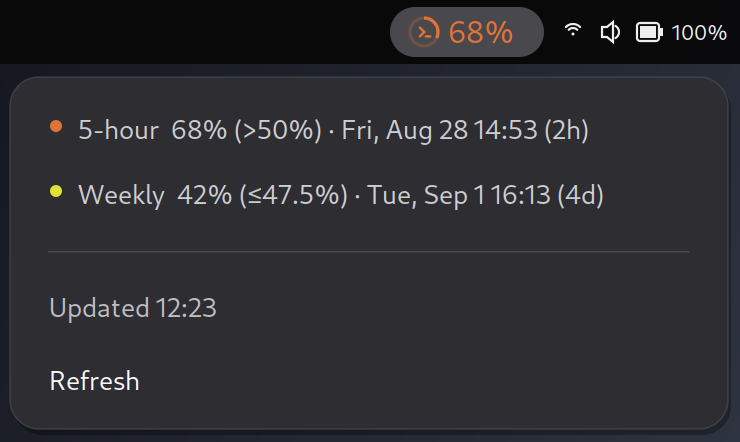
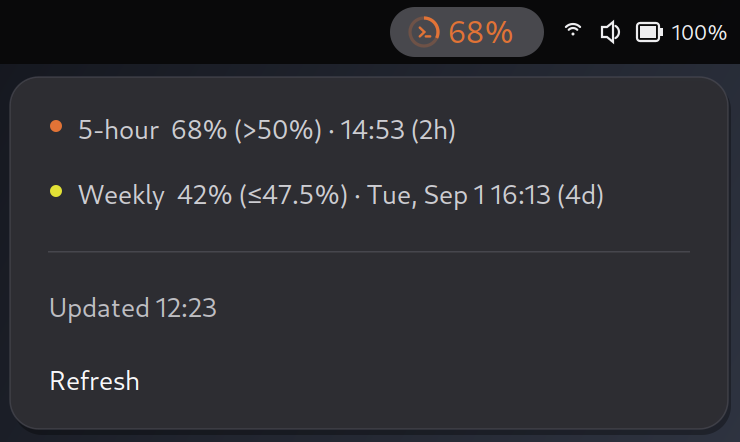
fix(quota): Hide dates from 5-hour limit labels (#17)
* fix(quota): Hide dates from 5-hour limit labels

* chore: update gnome screenshot

* fix

* chore: update macos screenshot

* macos: fix HH:mm time format

* windows: fix screenshot

* chore: update macos screenshot

* chore: update windows screenshot

---------

Changed region(s): [[0.4662, 0.2647, 0.8081, 0.3235]]

diff --git a/gnome/extension/quota.js b/gnome/extension/quota.js
@@ -98,14 +98,14 @@ function formatRemaining(milliseconds) {
     return `${Math.max(1, Math.floor(minutes))}m`;
 }
 
-export function formatReset(value, now = Date.now()) {
+export function formatReset(value, now = Date.now(), includeDate = true) {
     const date = dateFrom(value);
     if (!date) return 'reset unknown';
 
     const formatted = `${WEEKDAYS[date.getDay()]}, ${MONTHS[date.getMonth()]} ${date.getDate()}`;
     const remaining = formatRemaining(date.getTime() - now);
     const suffix = remaining ? ` (${remaining})` : '';
-    return `${formatted} ${formatTime(value)}${suffix}`;
+    return `${includeDate ? `${formatted} ` : ''}${formatTime(value)}${suffix}`;
 }
 
 function windowStatus(value, window, durationMinutes, now) {

diff --git a/macos/Sources/CuotaX/Quota.swift b/macos/Sources/CuotaX/Quota.swift
@@ -257,11 +257,11 @@ func formatTime(_ value: Date?) -> String {
   value?.formatted(date: .omitted, time: .shortened) ?? "—"
 }
 
-func formatReset(_ value: Date?, now: Date = Date()) -> String {
+func formatReset(_ value: Date?, now: Date = Date(), includeDate: Bool = true) -> String {
   guard let value else { return "reset unknown" }
   let formatter = DateFormatter()
   formatter.locale = Locale(identifier: "en_US_POSIX")
-  formatter.dateFormat = "EEE, MMM d HH:mm"
+  formatter.dateFormat = includeDate ? "EEE, MMM d HH:mm" : "HH:mm"
   let suffix = formatRemaining(value.timeIntervalSince(now)).map { " (\($0))" } ?? ""
   return "\(formatter.string(from: value))\(suffix)"
 }

diff --git a/macos/Sources/CuotaX/ScreenshotRenderer.swift b/macos/Sources/CuotaX/ScreenshotRenderer.swift
@@ -123,7 +123,7 @@ enum ScreenshotRenderer {
     NSBezierPath(ovalIn: topRect(x: 207, y: y + 5, width: 8, height: 8)).fill()
     let comparison = normalizedPercent(value.usedPercent) <= status.onTrackPercent! ? "≤" : ">"
     let title =
-      "\(label)  \(formatPercent(value.usedPercent)) (\(comparison)\(formatPercent(status.onTrackPercent))) · \(formatReset(value.resetsAt, now: now))"
+      "\(label)  \(formatPercent(value.usedPercent)) (\(comparison)\(formatPercent(status.onTrackPercent))) · \(formatReset(value.resetsAt, now: now, includeDate: !fiveHour))"
     drawText(title, x: 228, y: y, size: 15, color: labelColor)
   }
 

diff --git a/gnome/extension/extension.js b/gnome/extension/extension.js
@@ -207,7 +207,7 @@ const CuotaXIndicator = GObject.registerClass(
                     ? ''
                     : ` (${used <= status.onTrackPercent ? '≤' : '>'}${formatPercent(status.onTrackPercent)})`;
             const text = quota
-                ? `${label}  ${formatPercent(used)}${reference} · ${formatReset(quota.resetsAt)}`
+                ? `${label}  ${formatPercent(used)}${reference} · ${formatReset(quota.resetsAt, Date.now(), window !== 'fiveHour')}`
                 : `${label}  —`;
             const item = infoItem(text);
             const pacing =

diff --git a/macos/Sources/CuotaX/StatusItemController.swift b/macos/Sources/CuotaX/StatusItemController.swift
@@ -140,7 +140,7 @@ final class StatusItemController: NSObject, NSMenuDelegate {
       } ?? ""
     let title =
       quota.map {
-        "\(label)  \(formatPercent($0.usedPercent))\(reference) · \(formatReset($0.resetsAt))"
+        "\(label)  \(formatPercent($0.usedPercent))\(reference) · \(formatReset($0.resetsAt, includeDate: !fiveHour))"
       } ?? "\(label)  —"
     let item = infoItem(title)
     item.image = paceImage(color: statusColor(status))

diff --git a/gnome/scripts/screenshot.js b/gnome/scripts/screenshot.js
@@ -128,7 +128,7 @@ function windowLine(cr, label, value, window, y) {
     const reference = ` (${used <= status.onTrackPercent ? '≤' : '>'}${formatPercent(status.onTrackPercent)})`;
     text(
         cr,
-        `${label}  ${formatPercent(used)}${reference} · ${formatReset(value.resetsAt, NOW)}`,
+        `${label}  ${formatPercent(used)}${reference} · ${formatReset(value.resetsAt, NOW, window !== 'fiveHour')}`,
         78,
         y,
         20,

diff --git a/gnome/tests/test_quota.js b/gnome/tests/test_quota.js
@@ -63,6 +63,7 @@ assertEqual(
 );
 assertEqual(formatReset(resetTimestamp, resetTimestamp - 33 * 60 * 1000), 'Tue, Sep 1 13:37 (33m)');
 assertEqual(formatReset(resetTimestamp, resetTimestamp), 'Tue, Sep 1 13:37');
+assertEqual(formatReset(resetTimestamp, resetTimestamp - 7 * 60 * 60 * 1000, false), '13:37 (7h)');
 assertEqual(formatReset(null), 'reset unknown');
 const beforeReset = 1_777_000_000_000;
 const resetAt = beforeReset + 60_000;

diff --git a/macos/Tests/CuotaXTests/QuotaTests.swift b/macos/Tests/CuotaXTests/QuotaTests.swift
@@ -25,6 +25,10 @@ import Testing
       == "Tue, Sep 1 13:37 (33m)"
   )
   #expect(formatReset(date, now: date) == "Tue, Sep 1 13:37")
+  #expect(
+    formatReset(date, now: date.addingTimeInterval(-7 * 60 * 60), includeDate: false)
+      == "13:37 (7h)"
+  )
   #expect(formatReset(nil) == "reset unknown")
 }
 

diff --git a/windows/CuotaX/Quota.cs b/windows/CuotaX/Quota.cs
@@ -290,7 +290,11 @@ internal static class QuotaFormatting
 
     internal static string Time(DateTimeOffset? value) => value?.ToLocalTime().ToString("t", CultureInfo.CurrentCulture) ?? "—";
 
-    internal static string Reset(DateTimeOffset? value, DateTimeOffset? now = null)
+    internal static string Reset(
+        DateTimeOffset? value,
+        DateTimeOffset? now = null,
+        bool includeDate = true
+    )
     {
         if (value is null)
         {
@@ -299,7 +303,12 @@ internal static class QuotaFormatting
 
         var remaining = Remaining(value.Value - (now ?? DateTimeOffset.Now));
         var suffix = remaining is null ? "" : $" ({remaining})";
-        return $"{value.Value.ToLocalTime().ToString("ddd, MMM d HH:mm", CultureInfo.InvariantCulture)}{suffix}";
+        var local = value.Value.ToLocalTime();
+        var formatted = local.ToString(
+            includeDate ? "ddd, MMM d HH:mm" : "HH:mm",
+            CultureInfo.InvariantCulture
+        );
+        return $"{formatted}{suffix}";
     }
 
     private static string? Remaining(TimeSpan value)

diff --git a/windows/CuotaX/ScreenshotRenderer.cs b/windows/CuotaX/ScreenshotRenderer.cs
@@ -96,7 +96,7 @@ internal static class ScreenshotRenderer
         }
 
         var comparison = window.UsedPercent <= status.OnTrackPercent ? "≤" : ">";
-        var reset = QuotaFormatting.Reset(window.ResetsAt, Now);
+        var reset = QuotaFormatting.Reset(window.ResetsAt, Now, includeDate: !fiveHour);
         var title =
             $"{label}  {QuotaFormatting.Percent(window.UsedPercent)} ({comparison}{QuotaFormatting.Percent(status.OnTrackPercent)}) · {reset}";
         DrawText(graphics, title, 213, y, Color.FromArgb(30, 30, 30));

diff --git a/windows/CuotaX/TrayApplicationContext.cs b/windows/CuotaX/TrayApplicationContext.cs
@@ -352,7 +352,7 @@ internal sealed class TrayApplicationContext : ApplicationContext
             ? string.Empty
             : $" ({(status.Level == QuotaLevel.Normal ? "≤" : ">")}{QuotaFormatting.Percent(status.OnTrackPercent)})";
         AddInfo(
-            $"{label}  {QuotaFormatting.Percent(window.UsedPercent)}{reference} · {QuotaFormatting.Reset(window.ResetsAt)}"
+            $"{label}  {QuotaFormatting.Percent(window.UsedPercent)}{reference} · {QuotaFormatting.Reset(window.ResetsAt, includeDate: !fiveHour)}"
         );
     }
 

diff --git a/windows/CuotaX.Tests/Program.cs b/windows/CuotaX.Tests/Program.cs
@@ -105,6 +105,7 @@ static Task TestQuotaFormatting()
         Equal("Tue, Sep 1 13:37 (7h)", QuotaFormatting.Reset(reset, reset.AddHours(-7)));
         Equal("Tue, Sep 1 13:37 (33m)", QuotaFormatting.Reset(reset, reset.AddMinutes(-33)));
         Equal("Tue, Sep 1 13:37", QuotaFormatting.Reset(reset, reset));
+        Equal("13:37 (7h)", QuotaFormatting.Reset(reset, reset.AddHours(-7), includeDate: false));
         Equal("reset unknown", QuotaFormatting.Reset(null));
     }
     finally
